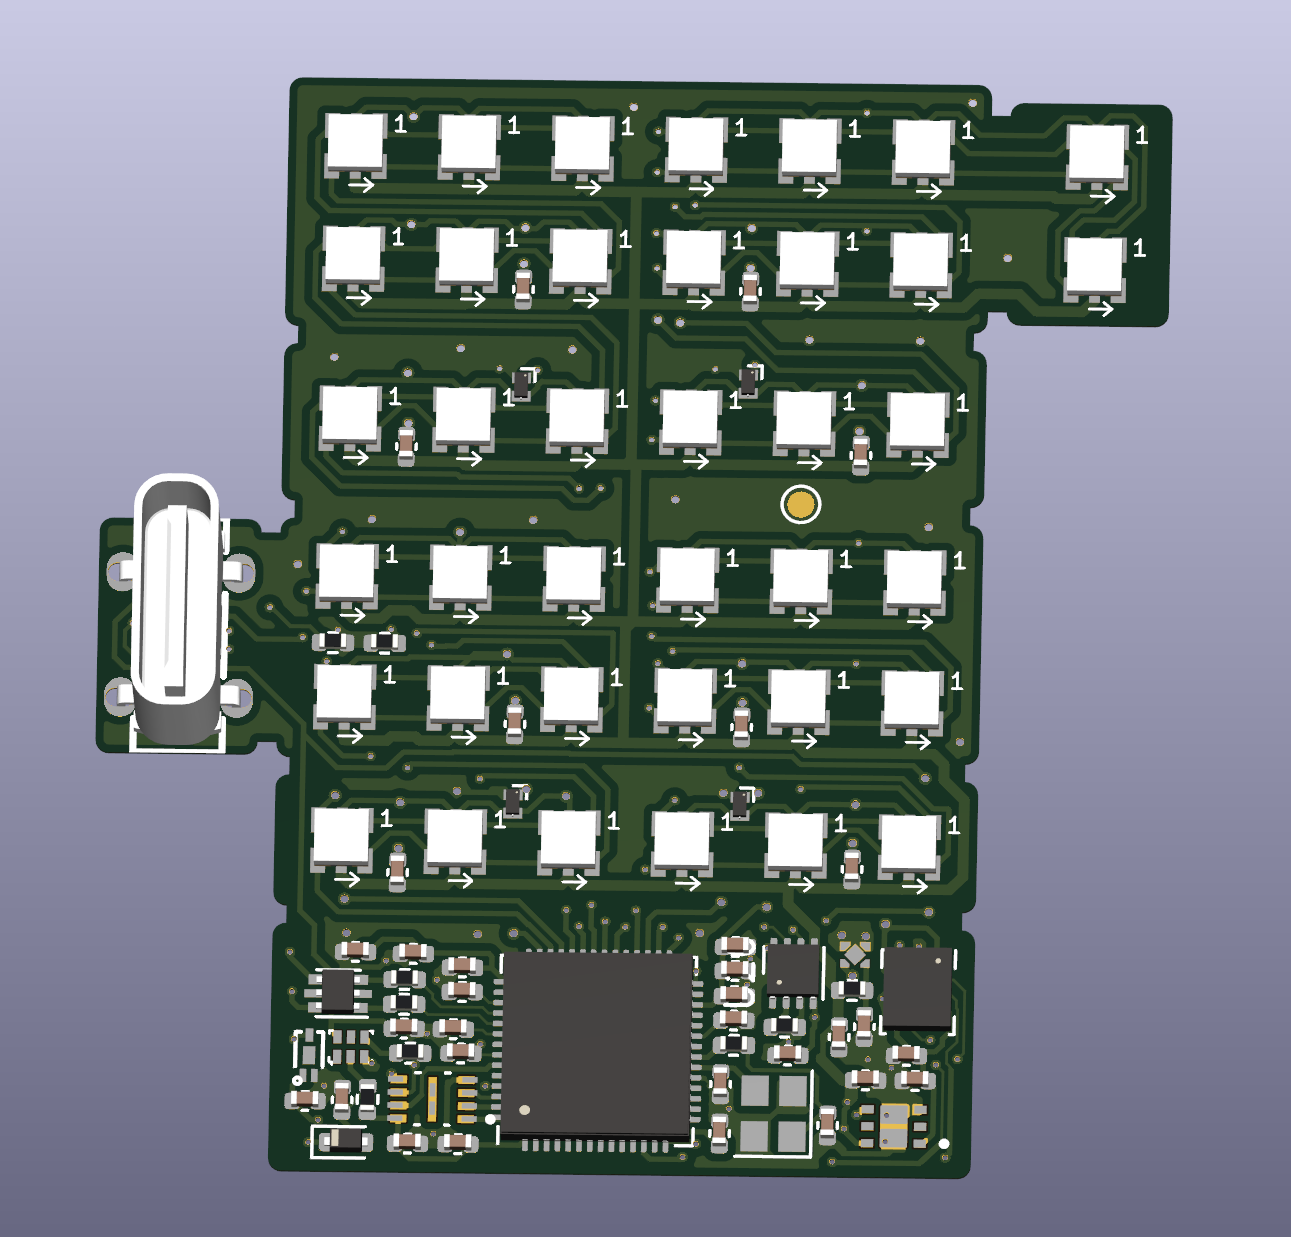
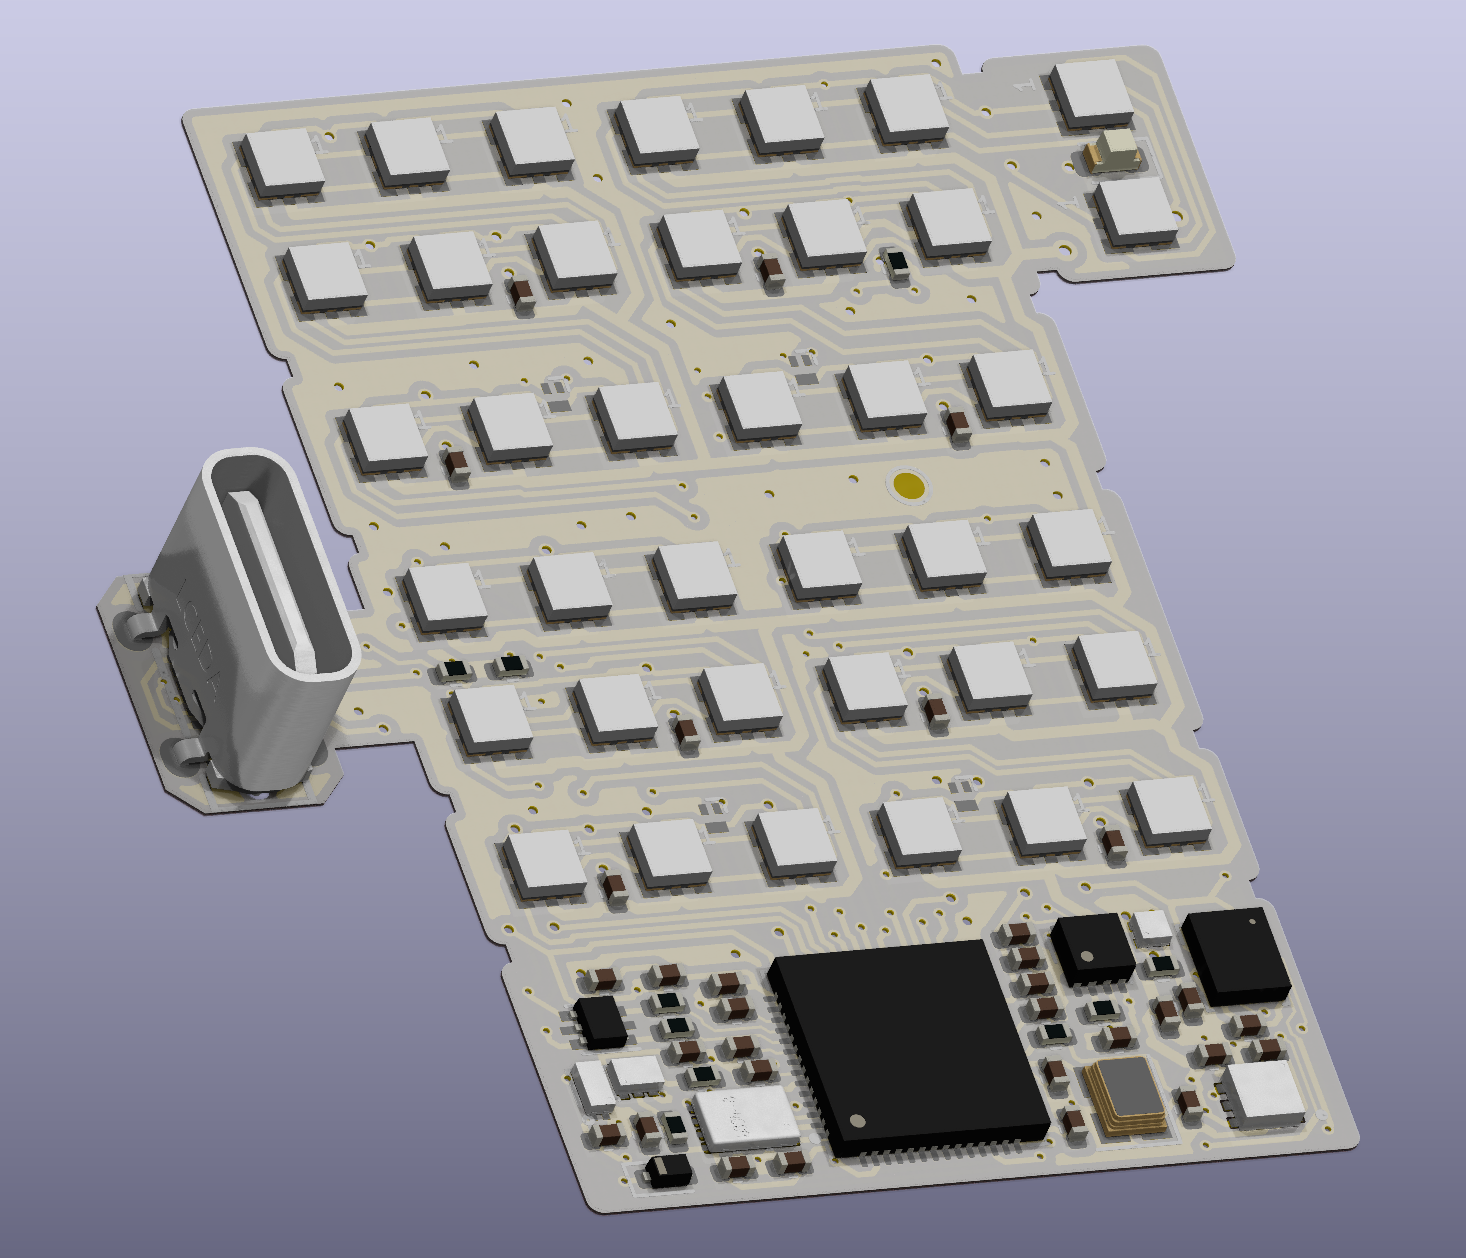
Add license, update pics and readme.

diff --git a/README.md b/README.md
@@ -3,5 +3,10 @@
 CAD:
 https://cad.onshape.com/documents/09024334f2a397aa5bc58e5a/w/46f4970e419c9b5834fa8bd0/e/3dd3a53ca6818e1934df52f5
 
-![a render of the PCB](docs/earring_PCB_render.png)
+![a render of the front of the PCB](docs/earring_PCB_render.png)
+![a render of the rear of the PCB](docs/earring_PCB_render_rear.png)
 
+A gentle glow shines from your direction.
+A twist, a step, a shimmy.
+You move with freedom in your space.
+Today is a good day. <3
